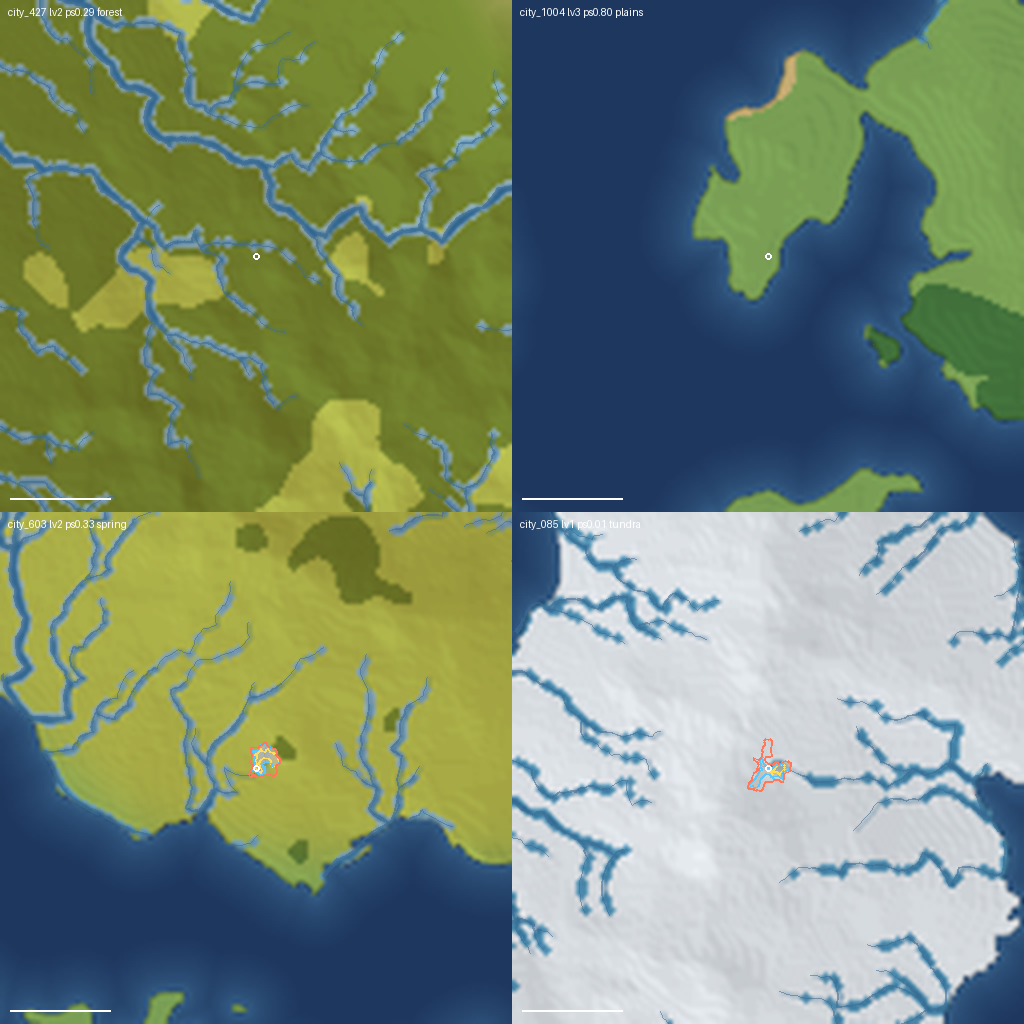
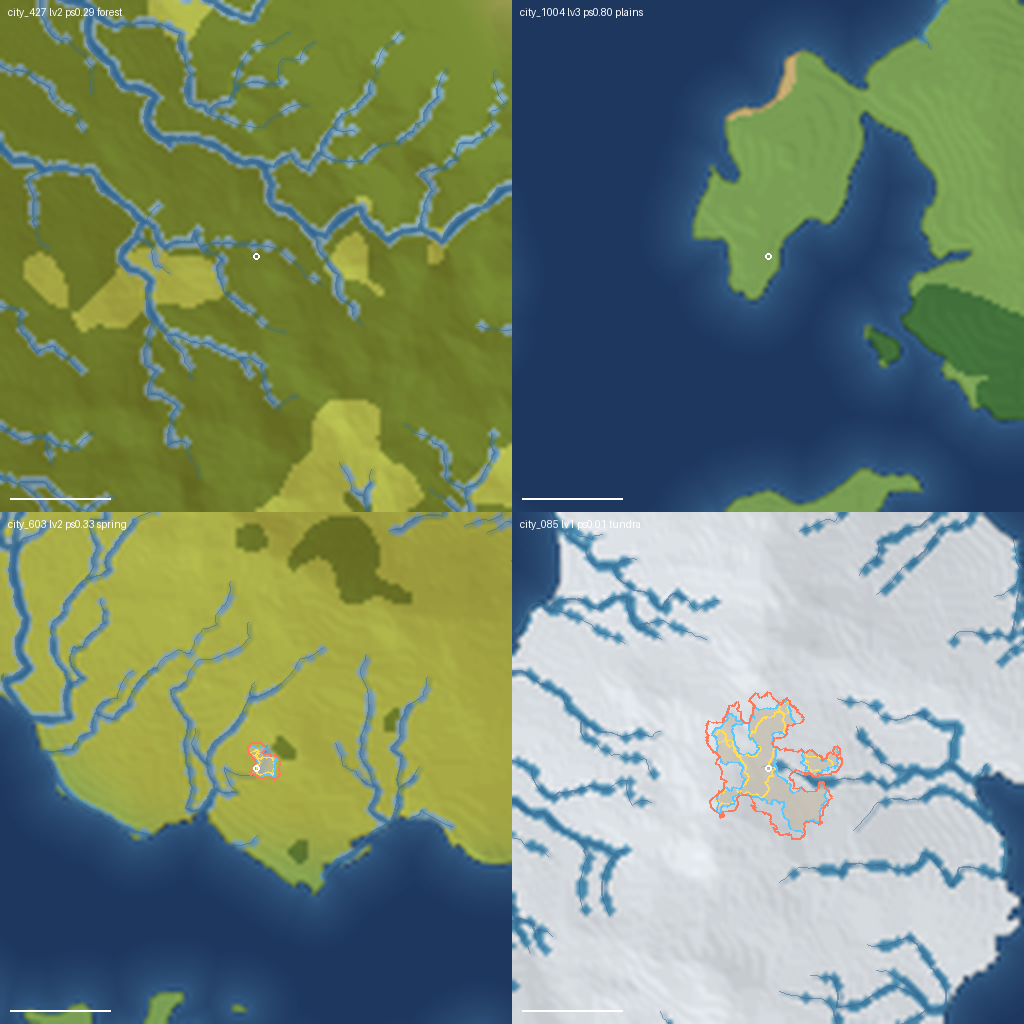
feat(worldgen): 剪影大小归一化——目标面积线性 A(s)=600+11400·s（创始人 2026-09-27：按面积成正比+整体缩小），半径开根号导出、弃等级分带；实测 ρ 0.42→0.94、地块封顶 7%、各规模段中位单调

Changed region(s): [[0.6875, 0.6875, 0.8438, 0.8125], [0.2188, 0.7188, 0.2812, 0.7812]]

diff --git a/tools/worldgen/l1/blob_v2_generate.py b/tools/worldgen/l1/blob_v2_generate.py
@@ -10,8 +10,9 @@
     binary_opening(1) → binary_closing(2) → find_contours 亚像素多环(外环+内环洞+飞地)
     → shapely simplify 保拓扑；洞面积 < max(3% 城区, 60px²) 丢弃
 
-尺度 R_ref(level, s) = base + g_max·s^gamma 复用旧 blob_params.json 的 level 带
-（与 blob_bake.py 的容量探测段同源，保证「容量卡向」语义一致）。
+尺度（归一化）：目标面积线性 A(s) = a_min + (a_max−a_min)·s，R_ref = sqrt(A/(πk))
+——剪影面积与规模 population_score 成正比（创始人 2026-09-27 口径），带宽整体收缩
+（a_max = 大城地块容量 p75，见 blob_v2_params.json area 段）。
 
 三档（tiers.low/mid/high）：每城按档位 s 各算一版轮廓——运行时随人口增长切档（R5 裁决）。
 贫瘠城（s 低 / capacity≈0 / 被山恋水卡死）目标面积自然塌缩 → 合法输出「无建成区」。
@@ -63,9 +64,16 @@ def djb2(s: str) -> int:
 
 
 def r_ref_of(level, s, area_p, lv_bands):
-    """尺度半径：复用旧 blob level 带 base + g_max·s^gamma（与容量探测段同源）"""
-    base, g_max = lv_bands.get(level, (30.0, 30.0))
-    return base + g_max * (max(s, 0.0) ** float(area_p["gamma"]))
+    """尺度半径（归一化，创始人 2026-09-27：剪影按面积成正比 + 整体缩小）：
+    目标面积线性 A(s) = a_min + (a_max−a_min)·s（s=population_score 0..1），
+    半径开根号导出 R = sqrt(A/(π·k))——面积严格随规模线性，不再按 level 分带、
+    不按直径映射（直径映射面积二次膨胀）。a_min/a_max 取 area 段
+    （a_max=大城地块容量 p75，整体收缩让大城基本装进自己地块）。level 仅保签容错。"""
+    k = float(area_p.get("k", 0.9))
+    a_min = float(area_p.get("a_min_px2", 600.0))
+    a_max = float(area_p.get("a_max_px2", 12000.0))
+    a = a_min + (a_max - a_min) * max(s, 0.0)
+    return math.sqrt(a / (math.pi * k))
 
 
 # ==================== 输入加载 ====================
